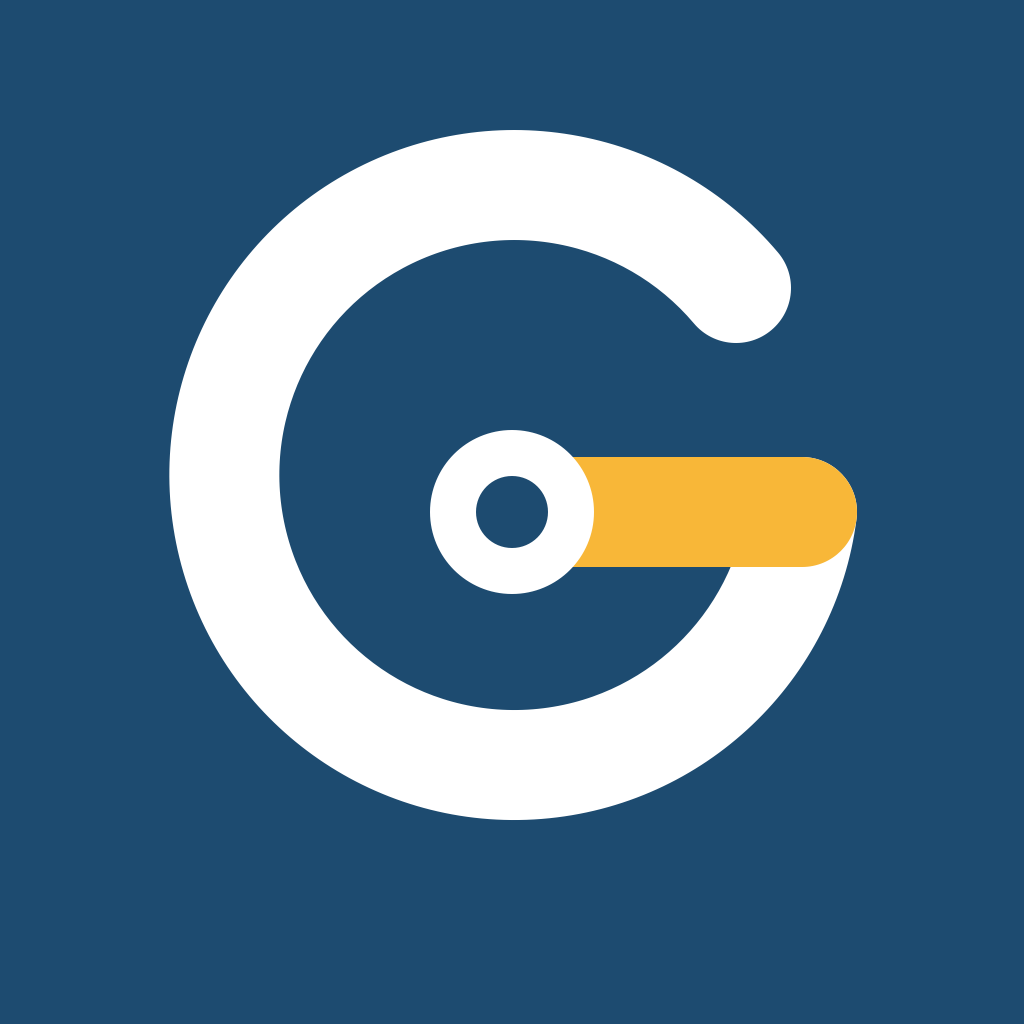
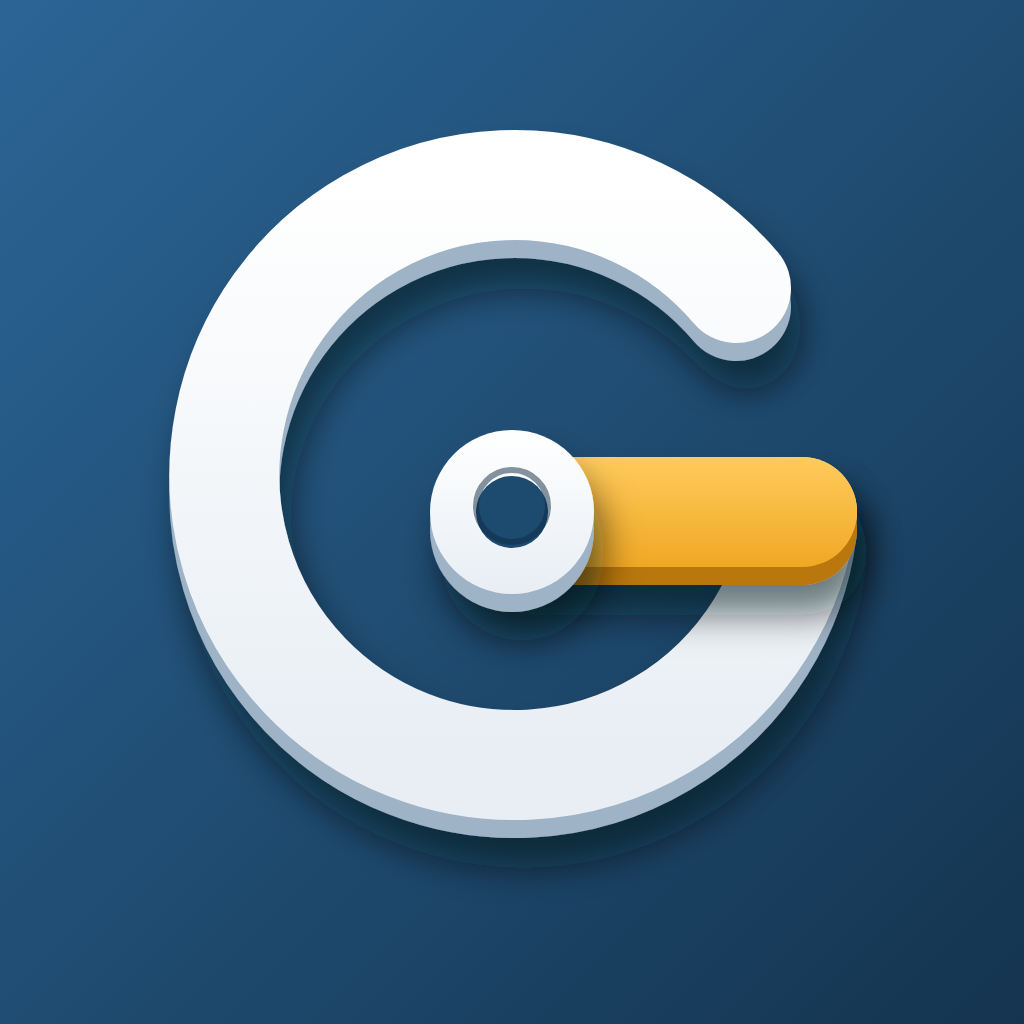
Garaje 1.0.36 disponible

diff --git a/novedades.html b/novedades.html
@@ -28,6 +28,13 @@
 <span class="eyebrow">Novedades</span>
 <h1>Qué hay de nuevo</h1>
 <p class="lead">Cada versión se publica en <a href="https://github.com/samuelgonzrojas/garaje/releases">GitHub</a> y la app avisa sola cuando hay una nueva.</p>
+<article class="card release"><h2 id="v1-0-36">1.0.36 <small>11 de octubre de 2026</small></h2>
+<ul>
+<li>Icono nuevo con relieve.</li>
+<li>Puedes encuadrar la foto de tu coche.</li>
+<li>Arreglada la barra de abajo, que a veces marcaba otra pestaña</li>
+</ul>
+</article>
 <article class="card release"><h2 id="v1-0-35">1.0.35 <small>11 de octubre de 2026</small></h2>
 <ul>
 <li>Puedes encuadrar la foto de tu coche moviéndola y ampliándola.</li>
